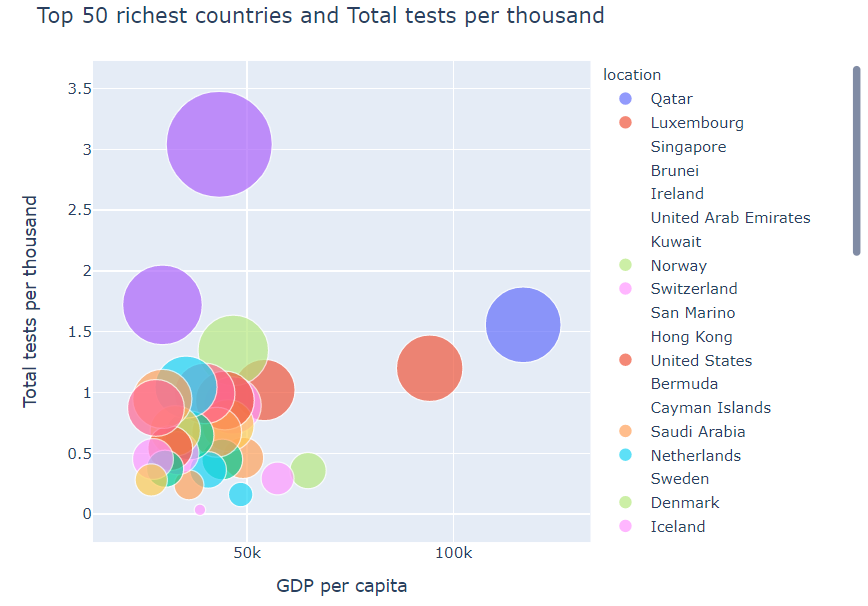
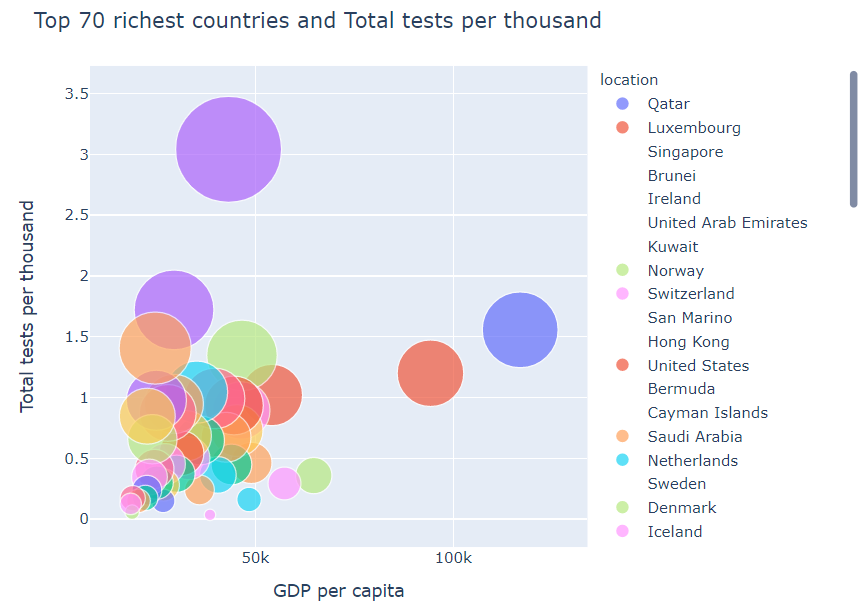
update

diff --git a/Readme.md b/Readme.md
@@ -29,7 +29,7 @@ The Statistical Analysis allowed us to achieve this goal.
 
 ### Mapping
 
-In the [Maps.ipynb notebook](https://github.com/eduardavieira/epidemiologia/blob/master/COVID19-Project/Maps.ipynb) was created the Map in the Figure below, where it is possible to consult the a map that contains COVID-19 death cases across the world.
+In the Figure below it is possible to consult the map that contains COVID-19 death cases across the world.
 
 ![death map](https://github.com/eduardavieira/epidemiologia/blob/master/COVID19-Project/Figures/death_cases_map.png)
 
@@ -48,6 +48,38 @@ It is also worth noting that countries such as Portugal (second most population 
 
 ![bubble_65](https://github.com/eduardavieira/epidemiologia/blob/master/COVID19-Project/Figures/bubble_aged65_deaths_per_million.png)
 
+In Figure below a bubble chart containing the 50 countries with the highest share of the population living in extreme poverty and the number of deaths per million of each country can be consulted.
+
+As we can see the poorest countries aren't the countries with the highest values of deaths per million.
+
+![bubble_poverty](https://github.com/eduardavieira/epidemiologia/blob/master/COVID19-Project/Figures/bubble_extreme_poverty_deaths_per_thousand.png)
+
+In Figure below a bubble chart containing the 70 countries with the highest Gross domestic product at purchasing power parity (constant 2011 international dollars) - GDP per capita and the number of tests per thousand of each country can be consulted.
+
+It is possible to see that the countries with high GDP per capita do more tests per thousand and generally, low GDP per capita have do lower number of tests. With remarcable exceptions such as Bahrain. 
+
+![bubble_gdp](https://github.com/eduardavieira/epidemiologia/blob/master/COVID19-Project/Figures/bubble_gdp_tests_per_thousand.png)
+
+In the Figure below it is possible to consult the evolution of COVID-19 cases in China, it is clear that the evolution of the curve is logistic.
+
+![cases_china](https://github.com/eduardavieira/epidemiologia/blob/master/COVID19-Project/Figures/cases_China.png)
+
+In the Figure below it is possible to consult the evolution of COVID-19 death cases in Portugal.
+
+![deaths_portugal](https://github.com/eduardavieira/epidemiologia/blob/master/COVID19-Project/Figures/death_cases_portugal.png)
+
 ### Parametric Curve Fitting of Iceland Cases
+
+The objective of curve fitting is to find the optimal combination of parameters that minimize the error.
+
+In the Figure below it is possible to consult the number of cases in Iceland (black dots) and the three models (logistic-blue, exponential-green and linear-red) attempting to fit the Iceland curve. It is clear that the best model is the logistic.
+
+![curve_1](https://github.com/eduardavieira/epidemiologia/blob/master/COVID19-Project/Figures/prediction_curve_1.png)
+
+The curve of new cases adjusts to a Gaussian function, see Figure below.
+
+![new_cases](https://github.com/eduardavieira/epidemiologia/blob/master/COVID19-Project/Figures/prediction_curve_2.png)
+
+The result of finding the optimal parameters (values of coefficients that minimize the fitting error) for the four models can be consulted in the Figure below. 
 
 ![Prediction Iceland](https://github.com/eduardavieira/epidemiologia/blob/master/COVID19-Project/Figures/prediction_parametric_fitting.png)
